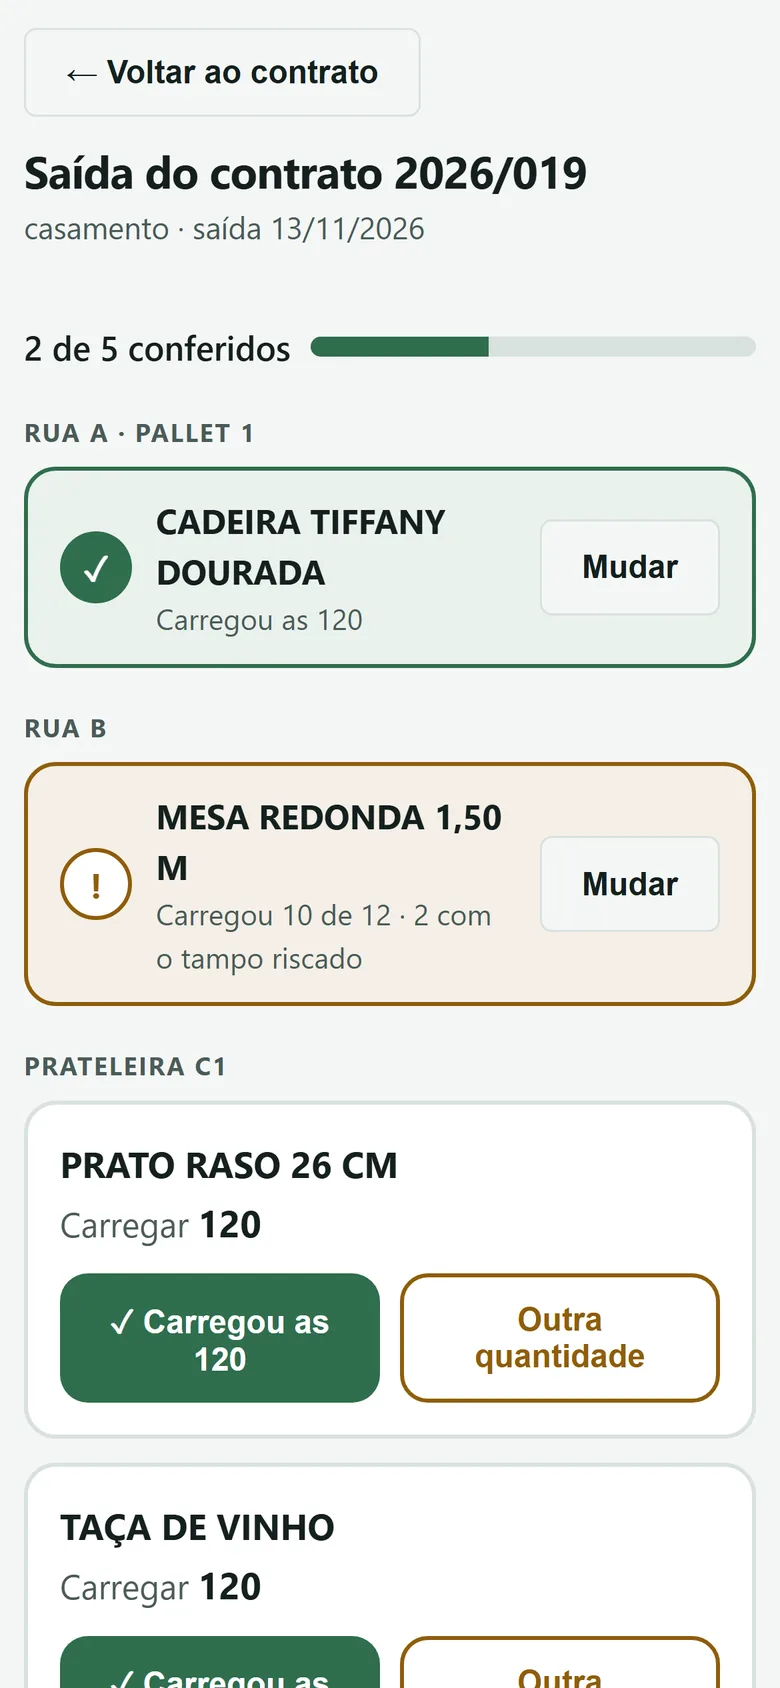
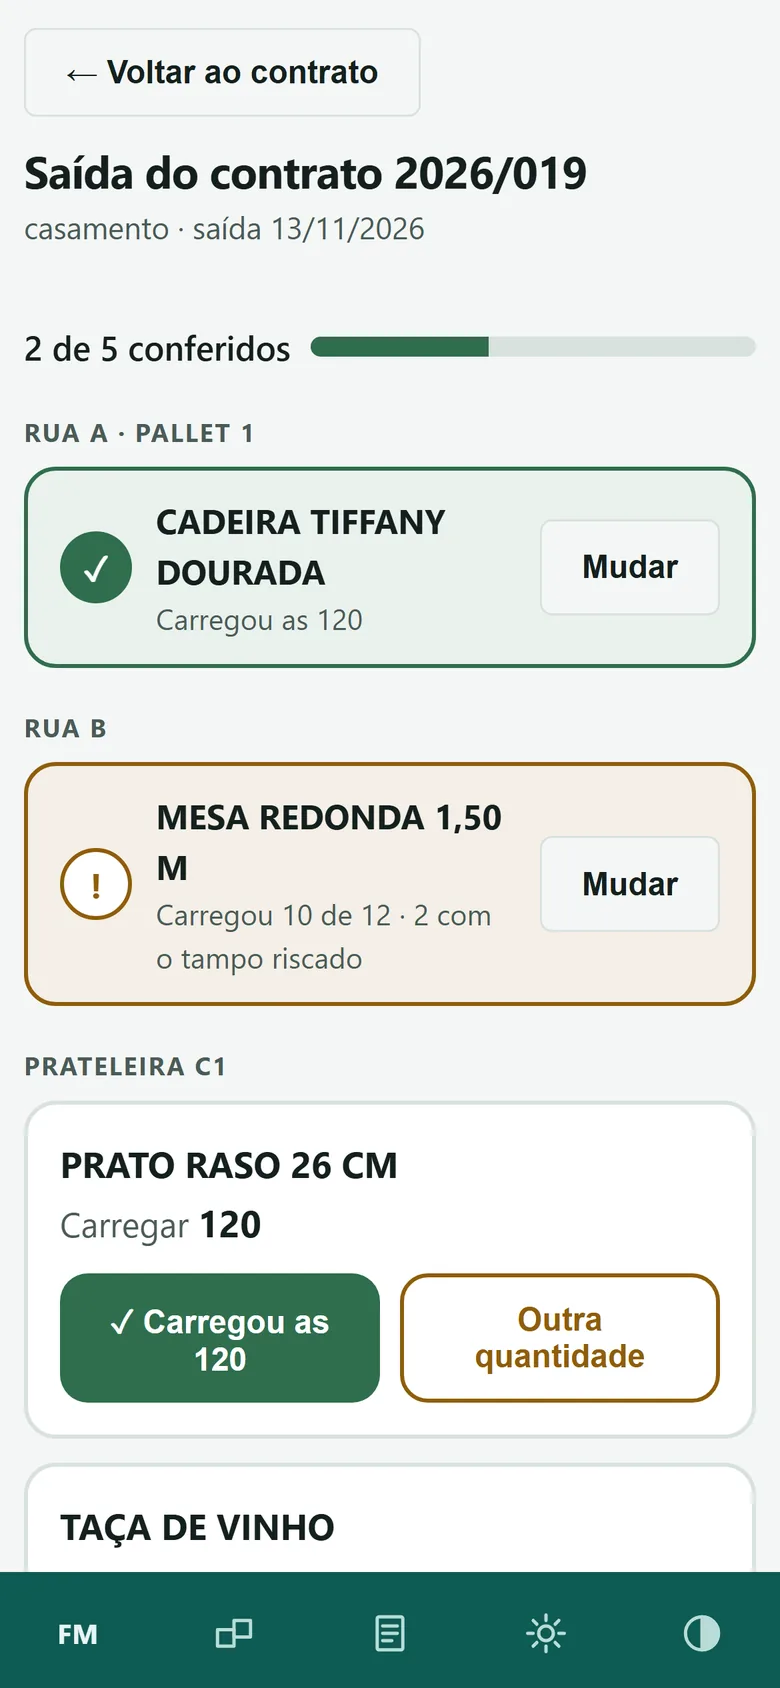
FM system: 8-screen gallery with phone views and thumbnails, contextual text

Changed region(s): [[0.0, 0.9242, 1.0, 1.0]]

diff --git a/frontend/index.html b/frontend/index.html
@@ -7,7 +7,7 @@
 <link rel="preconnect" href="https://fonts.googleapis.com">
 <link rel="preconnect" href="https://fonts.gstatic.com" crossorigin>
 <link rel="stylesheet" href="https://fonts.googleapis.com/css2?family=Inter:wght@400;500;600;700;800&family=JetBrains+Mono:wght@400;600&family=Dancing+Script:wght@600;700&display=swap">
-<link rel="stylesheet" href="css/style.css?v=20">
+<link rel="stylesheet" href="css/style.css?v=21">
 </head>
 <body>
 
@@ -160,10 +160,10 @@
           <article class="card featured-card">
             <button type="button" class="thumb featured-thumb featured-shot" data-gallery-open="0" aria-label="Abrir as telas do sistema">
               <img src="img/projetos/fm-sistema/capa.webp" alt="" width="960" height="512" loading="lazy">
-              <span class="featured-shot-tag" data-i18n="featured-sys-shots">4 telas · dados fictícios</span>
+              <span class="featured-shot-tag" data-i18n="featured-sys-shots">8 telas · dados fictícios</span>
             </button>
             <h3 data-i18n="featured-sys-t">Sistema de Gestão (interno)</h3>
-            <p data-i18n="featured-sys-d">Calcula a disponibilidade do estoque por período — descontando reservas, higienização e material sublocado que precisa voltar ao fornecedor —, transforma o orçamento aprovado em contrato sem redigitar nada e controla o acesso por perfil: cada pessoa vê só o que precisa. Mais de 200 testes automatizados cobrem as regras de negócio.</p>
+            <p data-i18n="featured-sys-d">Sistema interno de uma locadora de materiais para eventos — mesas, cadeiras, louças e tecidos. Antes, saber o que estava livre numa data dependia da memória, e cada orçamento era redigitado no Word e de novo no contrato. Agora o sistema calcula a disponibilidade por período — descontando reservas, higienização e material sublocado que precisa voltar ao fornecedor —, transforma o orçamento aprovado em contrato sem redigitar nada e controla o acesso por perfil: cada pessoa vê só o que precisa. Mais de 200 testes automatizados cobrem as regras de negócio.</p>
             <div class="project-meta">
               <span class="tag skill indentificador Python">Python</span>
               <span class="tag skill">Django</span>
@@ -183,7 +183,7 @@
         <div class="gallery-head">
           <div>
             <h3 id="fm-gallery-title" data-i18n="gallery-title">Sistema de Gestão — representações do modelo</h3>
-            <p class="gallery-note" data-i18n="gallery-note">Telas reais do sistema, preenchidas com dados fictícios para preservar clientes e valores.</p>
+            <p class="gallery-note" data-i18n="gallery-note">Sistema interno de uma locadora de materiais para eventos. Telas reais, preenchidas com dados fictícios para preservar clientes e valores.</p>
           </div>
           <button type="button" class="gallery-close" data-gallery-close aria-label="Fechar">&times;</button>
         </div>
@@ -193,14 +193,19 @@
         </figure>
         <div class="gallery-nav">
           <button type="button" class="btn secondary gallery-prev" aria-label="Tela anterior">&larr;</button>
-          <span class="gallery-count" aria-live="polite">1 / 4</span>
+          <span class="gallery-count" aria-live="polite">1 / 8</span>
           <button type="button" class="btn secondary gallery-next" aria-label="Próxima tela">&rarr;</button>
         </div>
+        <div class="gallery-thumbs" aria-label="Escolher tela"></div>
         <ul class="gallery-slides" hidden>
           <li data-src="img/projetos/fm-sistema/01-disponibilidade.webp" data-w="1600" data-h="1000"><span data-i18n="gallery-1">Consulta de disponibilidade — unidades livres no período, já descontando reservas, higienização e material sublocado que precisa voltar ao fornecedor.</span></li>
+          <li data-src="img/projetos/fm-sistema/07-disponibilidade-celular.webp" data-w="780" data-h="1688"><span data-i18n="gallery-5">A mesma consulta no celular — a tabela vira uma lista fácil de ler na palma da mão.</span></li>
           <li data-src="img/projetos/fm-sistema/02-orcamentos.webp" data-w="1600" data-h="1000"><span data-i18n="gallery-2">Orçamentos — todas as propostas com código, versão, responsável, status e validade.</span></li>
           <li data-src="img/projetos/fm-sistema/03-orcamento-detalhe.webp" data-w="1600" data-h="1287"><span data-i18n="gallery-3">Detalhe do orçamento — itens, diárias, material sublocado, serviços e total. Aprovado, vira contrato sem redigitar nada.</span></li>
+          <li data-src="img/projetos/fm-sistema/08-orcamento-celular.webp" data-w="780" data-h="1688"><span data-i18n="gallery-6">Orçamento no celular — itens em cartões e o total sempre visível no rodapé.</span></li>
+          <li data-src="img/projetos/fm-sistema/05-contrato-detalhe.webp" data-w="1600" data-h="1606"><span data-i18n="gallery-7">Contrato — cliente, evento, itens com valor de reposição e todos os documentos do negócio numa pasta só.</span></li>
           <li data-src="img/projetos/fm-sistema/04-conferencia-celular.webp" data-w="780" data-h="1688"><span data-i18n="gallery-4">Conferência de saída no celular — o galpão confere item a item, organizado pela localização no estoque, e registra divergências.</span></li>
+          <li data-src="img/projetos/fm-sistema/06-inicio-celular.webp" data-w="780" data-h="1688"><span data-i18n="gallery-8">Tela inicial no celular — lembra os contratos sem assinatura e as sublocações que vencem nos próximos dias.</span></li>
         </ul>
       </dialog>
 
@@ -355,7 +360,7 @@
   </div>
 </footer>
 
-<script src="js/script.js?v=22" defer></script>
+<script src="js/script.js?v=23" defer></script>
 <script src="js/api-status.js" defer></script>
 </body>
 </html>

diff --git a/frontend/js/script.js b/frontend/js/script.js
@@ -25,10 +25,10 @@ const i18nDict = {
     'featured-site-d':'Catalog with prices and a table-setting simulator, plus an assistant that guides the customer question by question and delivers a ready-to-send order to the company\'s WhatsApp. Content is edited in a purpose-built panel reachable only through a private network, and every publish goes through automated checks and intrusion tests.',
     'featured-tag-sec':'Security','featured-site-btn':'URL coming soon',
     'featured-sys-t':'Management System (internal)',
-    'featured-sys-d':'Calculates stock availability per period — accounting for reservations, cleaning turnaround and sub-rented stock that must go back to the supplier — turns an approved quote into a contract with no retyping, and enforces role-based access: each person sees only what they need. 200+ automated tests cover the business rules.',
+    'featured-sys-d':'Internal system for an event-rental company — tables, chairs, tableware and linens. Before, knowing what was free on a given date depended on memory, and every quote was retyped in Word and again in the contract. Now the system calculates availability per period — accounting for reservations, cleaning turnaround and sub-rented stock that must go back to the supplier — turns an approved quote into a contract with no retyping, and enforces role-based access: each person sees only what they need. 200+ automated tests cover the business rules.',
     'featured-tag-tests':'Automated Testing','featured-tag-access':'Role-Based Access','featured-tag-pm':'Project Management',
-    'featured-sys-shots':'4 screens · fictional data','featured-sys-note':'Internal use — no public access.','featured-sys-gallery':'See live representations of the system',
-    'gallery-title':'Management System — screens of the model','gallery-note':'Real system screens, filled with fictional data to protect clients and pricing.',
+    'featured-sys-shots':'8 screens · fictional data','gallery-5':'The same check on a phone — the table turns into an easy-to-read list.','gallery-6':'Quote on a phone — items as cards and the total always visible at the bottom.','gallery-7':'Contract — client, event, items with replacement value and every document of the deal in one folder.','gallery-8':'Home screen on a phone — reminds unsigned contracts and sub-rentals due in the next days.','featured-sys-note':'Internal use — no public access.','featured-sys-gallery':'See live representations of the system',
+    'gallery-title':'Management System — screens of the model','gallery-note':'Internal system for an event-rental company. Real screens, filled with fictional data to protect clients and pricing.',
     'gallery-1':'Availability check — units free for the period, already accounting for reservations, cleaning turnaround and sub-rented stock that must go back to the supplier.',
     'gallery-2':'Quotes — every proposal with code, version, owner, status and expiry date.',
     'gallery-3':'Quote detail — items, daily rates, sub-rented stock, services and total. Once approved, it becomes a contract with no retyping.',
@@ -306,9 +306,24 @@ class PortfolioApp {
     const img = dlg.querySelector('.gallery-img');
     const cap = dlg.querySelector('.gallery-caption');
     const count = dlg.querySelector('.gallery-count');
+    const thumbsBox = dlg.querySelector('.gallery-thumbs');
+    const thumbs = slides.map((s, k) => {
+      const b = document.createElement('button');
+      b.type = 'button';
+      b.className = 'gallery-thumb';
+      b.setAttribute('aria-label', `Tela ${k + 1}`);
+      const t = document.createElement('img');
+      t.src = s.dataset.src.replace('fm-sistema/', 'fm-sistema/thumbs/');
+      t.alt = ''; t.loading = 'lazy'; t.width = 150; t.height = 100;
+      b.appendChild(t);
+      b.addEventListener('click', () => show(k));
+      thumbsBox?.appendChild(b);
+      return b;
+    });
     let i = 0;
     const show = (n) => {
       i = (n + slides.length) % slides.length;
+      thumbs.forEach((b, k) => b.classList.toggle('ativo', k === i));
       const s = slides[i];
       const text = s.textContent.trim();
       img.src = s.dataset.src;

diff --git a/frontend/css/style.css b/frontend/css/style.css
@@ -228,12 +228,17 @@ body:has(.gallery[open]){overflow:hidden}
 .gallery-stage{display:flex;flex-direction:column;align-items:center;gap:10px;margin:0;min-height:0}
 .gallery-img{
   display:block;width:auto;height:auto;max-width:100%;
-  max-height:calc(100vh - 250px);max-height:calc(100dvh - 250px);
+  max-height:calc(100vh - 320px);max-height:calc(100dvh - 320px);
   object-fit:contain;border-radius:10px;border:1px solid var(--border-light);background:#f3f5f4;
 }
 .gallery-caption{color:var(--text-muted);font-size:.9rem;text-align:center;max-width:72ch}
 .gallery-nav{display:flex;justify-content:center;align-items:center;gap:16px}
 .gallery-nav .btn{padding:8px 18px}
+.gallery-thumbs{display:flex;gap:8px;justify-content:center;overflow-x:auto;padding:2px}
+.gallery-thumb{flex:0 0 auto;width:72px;height:48px;padding:0;border:2px solid transparent;border-radius:8px;overflow:hidden;cursor:pointer;background:none;opacity:.55;transition:opacity .2s,border-color .2s}
+.gallery-thumb img{width:100%;height:100%;object-fit:cover;object-position:top;display:block}
+.gallery-thumb:hover,.gallery-thumb.ativo{opacity:1}
+.gallery-thumb.ativo{border-color:var(--primary)}
 .gallery-count{font-family:'JetBrains Mono',monospace;font-size:.8rem;color:var(--text-muted);font-variant-numeric:tabular-nums}
 
 .stack-list{list-style:none;display:flex;flex-direction:column;gap:8px;font-size:.95rem;color:var(--text-muted)}

diff --git a/frontend/curriculo.html b/frontend/curriculo.html
@@ -7,7 +7,7 @@
 <link rel="preconnect" href="https://fonts.googleapis.com">
 <link rel="preconnect" href="https://fonts.gstatic.com" crossorigin>
 <link rel="stylesheet" href="https://fonts.googleapis.com/css2?family=Inter:wght@400;500;600;700;800&family=JetBrains+Mono:wght@400;600&family=Dancing+Script:wght@600;700&display=swap">
-<link rel="stylesheet" href="css/style.css?v=20">
+<link rel="stylesheet" href="css/style.css?v=21">
 </head>
 <body>
 
@@ -231,7 +231,7 @@
   </div>
 </footer>
 
-<script src="js/script.js?v=22" defer></script>
+<script src="js/script.js?v=23" defer></script>
 <script src="js/api-status.js" defer></script>
 </body>
 </html>
